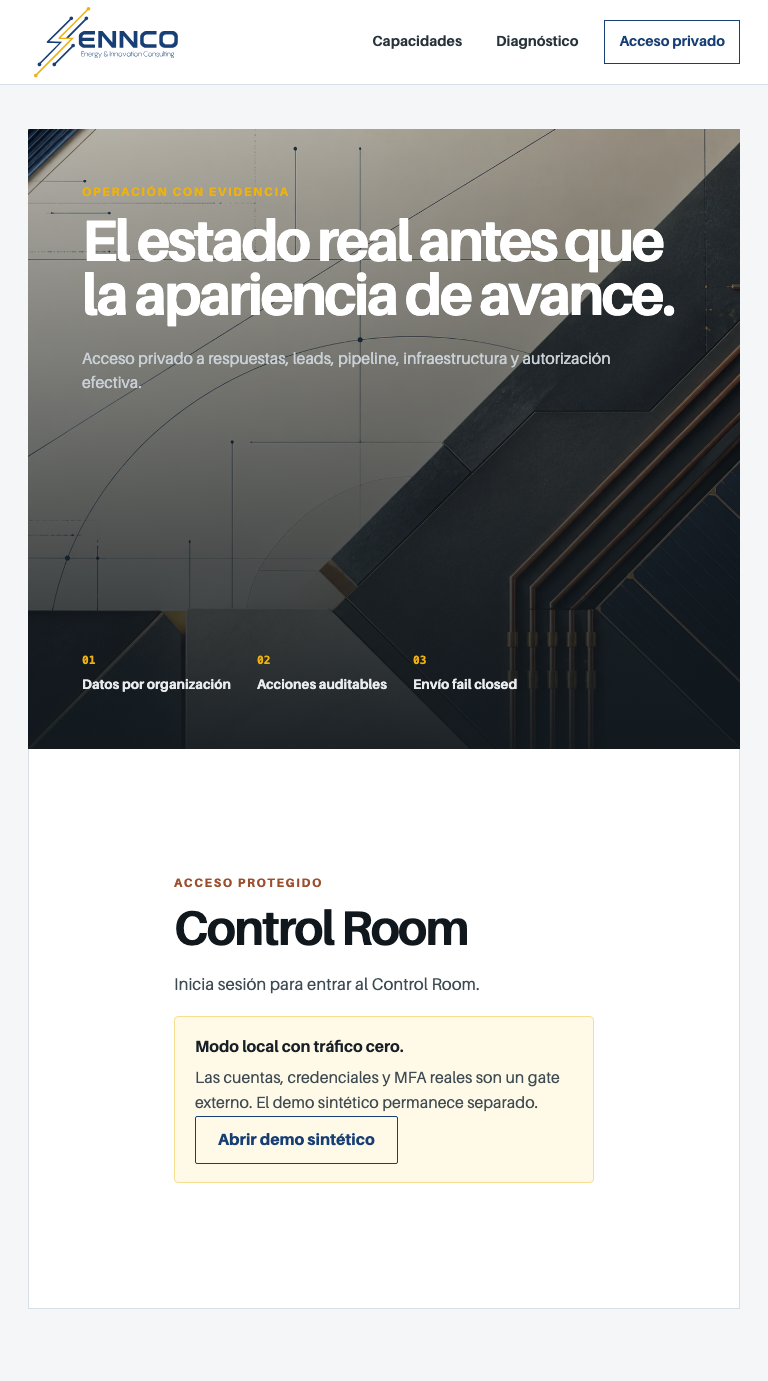
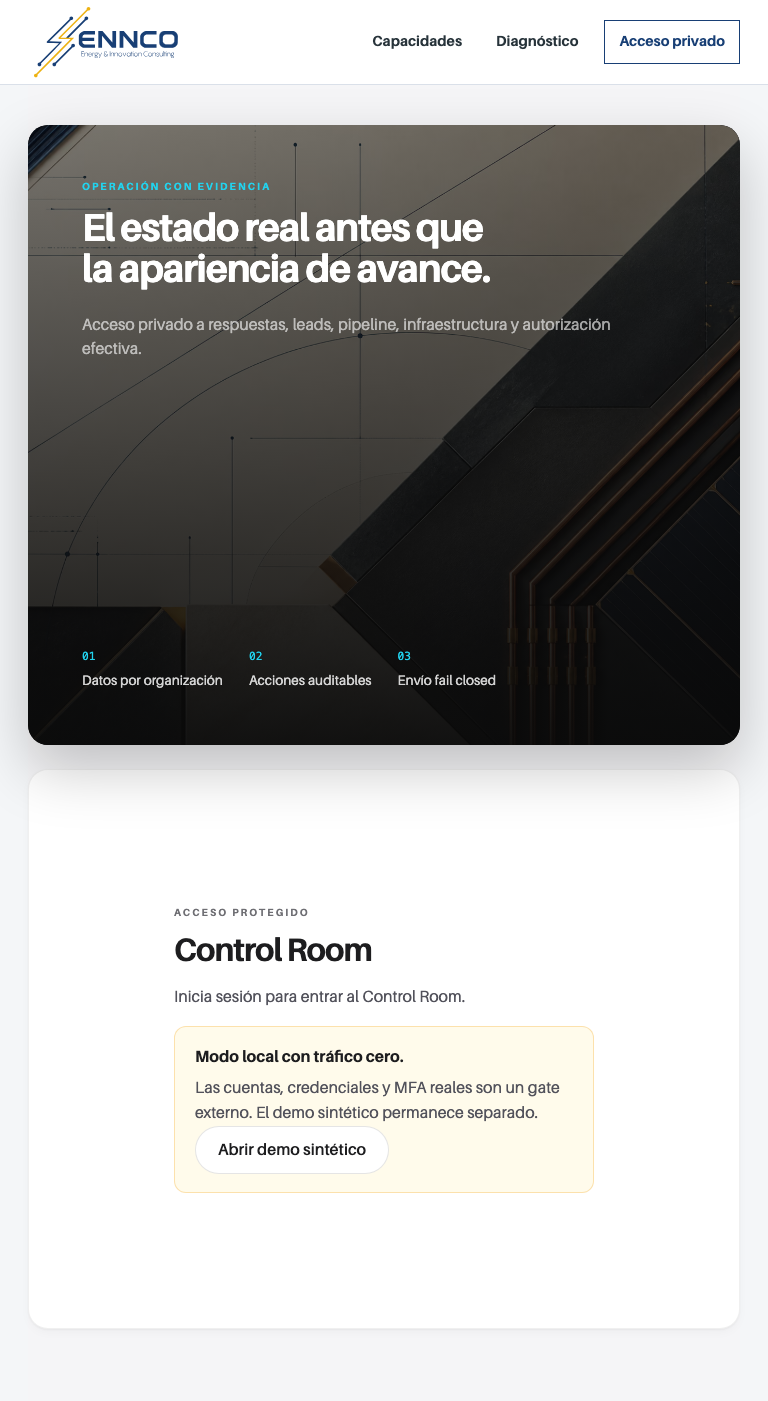
feat(cr): F6 acceso — /ingreso y subrutas al sistema Centro de Comando
Scope main.auth-shell: visual oscuro radius 20 con textura, panel card,
inputs redondeados con focus ring cyan, CTA pill, notice suave. Copy y
header público intactos. E2E 257/257, M31 PASS_LOCAL, tripwire home 4/4.

diff --git a/src/styles/control-room.css b/src/styles/control-room.css
@@ -10,7 +10,8 @@
 
 /* ---------- 1. Tokens de piel + remapeo scoped ---------- */
 
-.cr-root {
+.cr-root,
+main.auth-shell {
   --cr-canvas: #f5f5f7;
   --cr-surface: #ffffff;
   --cr-line: rgba(0, 0, 0, 0.06);
@@ -589,6 +590,95 @@
 .cr-root .cr-feed-item div { display: grid; gap: 3px; min-width: 0; }
 .cr-root .cr-feed-item p { margin: 0; color: var(--cr-ink); font-size: 0.8rem; line-height: 1.45; }
 .cr-root .cr-feed-item span { color: var(--cr-body); font-family: var(--font-data); font-size: 0.62rem; }
+
+/* ---------- 14b. Acceso (/ingreso y subrutas) ---------- */
+
+main.auth-shell { gap: 24px; padding-block: 40px 72px; }
+
+main.auth-shell .auth-visual {
+  border-radius: 20px;
+  background: var(--cr-hero-bg);
+  box-shadow: 0 24px 60px rgba(0, 0, 0, 0.22);
+}
+
+main.auth-shell .auth-visual::before {
+  border-radius: inherit;
+  background: linear-gradient(180deg, rgba(10, 10, 10, 0.55), rgba(10, 10, 10, 0.96)), url("/media/generated/engineering-texture.avif") center / cover;
+}
+
+main.auth-shell .auth-visual .eyebrow { color: var(--cr-accent-vivid); font-size: 0.64rem; font-weight: 700; letter-spacing: 0.2em; }
+main.auth-shell .auth-visual h1 { font-size: clamp(2.4rem, 4vw, 3.6rem); letter-spacing: -0.03em; line-height: 1.05; }
+main.auth-shell .auth-visual > div > p:last-child { color: rgba(255, 255, 255, 0.62); }
+main.auth-shell .auth-visual li { color: rgba(255, 255, 255, 0.82); font-weight: 500; }
+main.auth-shell .auth-visual li span { color: var(--cr-accent-vivid); }
+
+main.auth-shell .auth-panel {
+  border: 1px solid var(--cr-line);
+  border-radius: 20px;
+  background: var(--cr-surface);
+  box-shadow: var(--cr-shadow-card);
+}
+
+main.auth-shell .auth-panel .eyebrow { color: var(--cr-muted); font-size: 0.64rem; font-weight: 700; letter-spacing: 0.2em; }
+main.auth-shell .auth-panel h1,
+main.auth-shell .auth-panel h2 { color: var(--cr-ink); font-size: clamp(2rem, 3.4vw, 2.8rem); letter-spacing: -0.03em; }
+main.auth-shell .auth-panel .lede { color: var(--cr-body); font-size: 1rem; }
+
+main.auth-shell .auth-form label { color: var(--cr-body); font-weight: 600; }
+main.auth-shell .auth-form input {
+  border: 1px solid rgba(0, 0, 0, 0.12);
+  border-radius: 10px;
+  background: #fff;
+}
+
+main.auth-shell .auth-form input:focus { border-color: var(--cr-accent); outline: 3px solid rgba(0, 194, 215, 0.18); }
+
+main.auth-shell .button {
+  border: 0;
+  border-radius: var(--cr-radius-pill);
+  background-color: #0891b2;
+  background-image: var(--cr-cta-gradient);
+  box-shadow: var(--cr-cta-shadow);
+  font-weight: 700;
+}
+
+main.auth-shell .button:hover,
+main.auth-shell .button:focus-visible {
+  border-color: transparent;
+  background-color: #0891b2;
+  background-image: var(--cr-cta-gradient);
+  box-shadow: var(--cr-cta-shadow);
+  filter: brightness(1.08) saturate(1.08);
+  transform: translateY(-2px);
+}
+
+main.auth-shell .button.secondary {
+  border: 1px solid rgba(0, 0, 0, 0.1);
+  background-color: #fff;
+  background-image: none;
+  box-shadow: none;
+  color: var(--cr-ink);
+  font-weight: 600;
+}
+
+main.auth-shell .button.secondary:hover,
+main.auth-shell .button.secondary:focus-visible {
+  border-color: rgba(0, 0, 0, 0.22);
+  background-color: #fff;
+  background-image: none;
+  color: var(--cr-ink);
+  filter: none;
+}
+
+main.auth-shell .auth-help-link { color: var(--cr-accent); font-weight: 600; }
+main.auth-shell .notice { border: 1px solid rgba(245, 158, 11, 0.28); border-radius: 12px; background: #fffbeb; }
+main.auth-shell .notice p { color: var(--cr-body); }
+main.auth-shell .mfa-qr { border: 1px solid var(--cr-line); border-radius: 12px; }
+main.auth-shell .mfa-secret { border-radius: 10px; background: #f5f5f7; font-family: var(--font-data); }
+
+@media (max-width: 980px) {
+  main.auth-shell .auth-panel { border: 1px solid var(--cr-line); }
+}
 
 /* ---------- 15. Animaciones (guardadas por reduced motion) ---------- */
 
